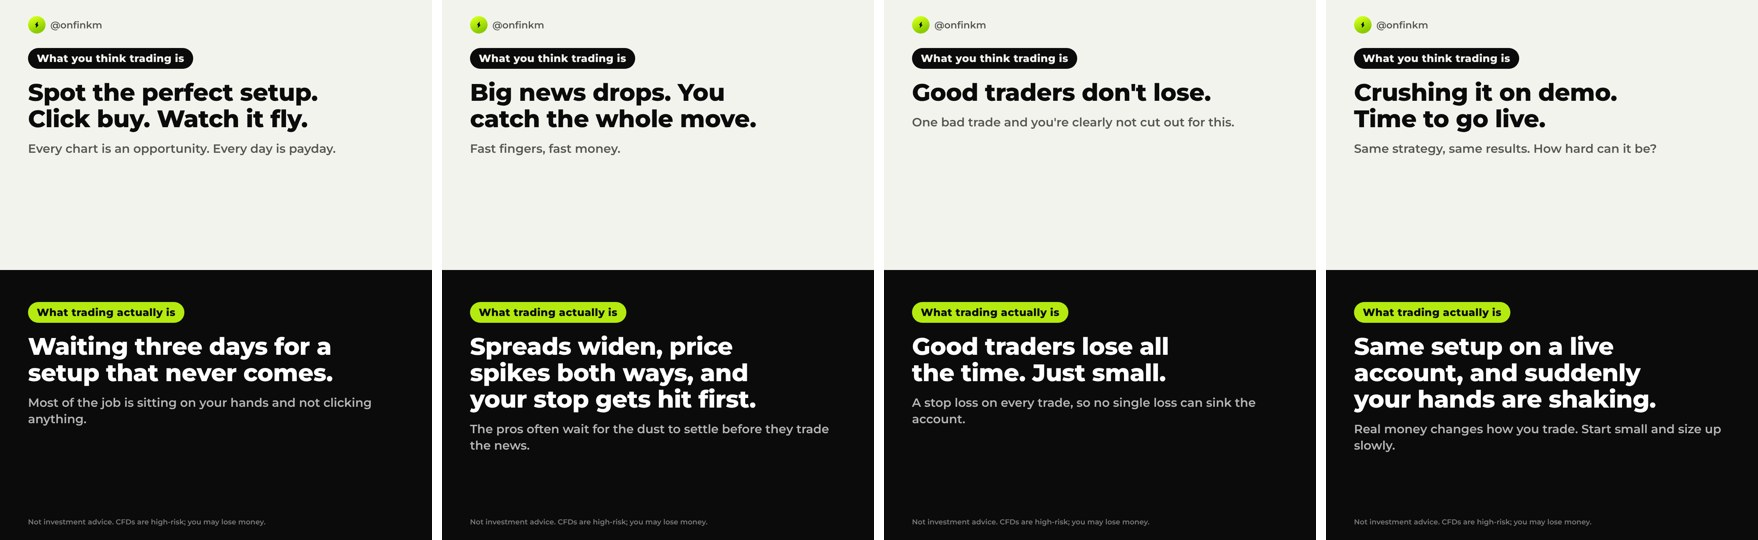
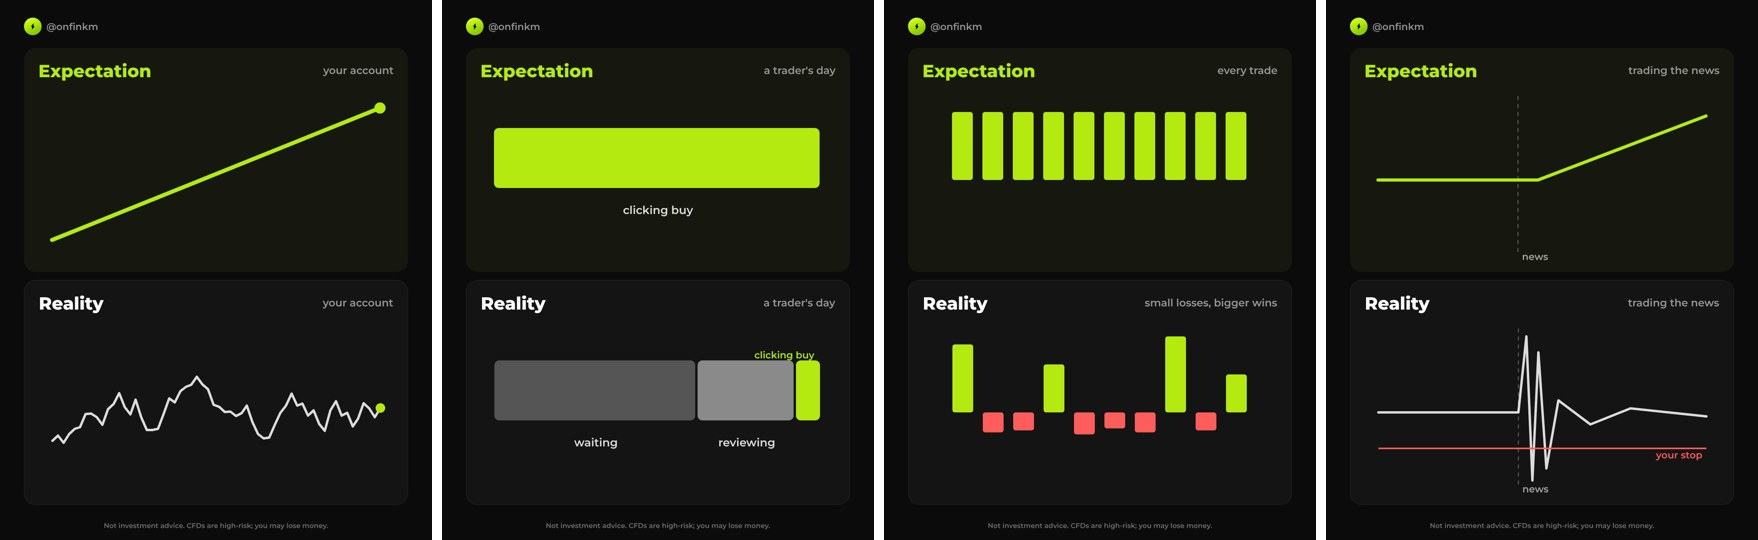
Expectation vs reality: visual version (chart-led, minimal text), 4 drafts
Claude-Session: https://claude.ai/code/session_01Njpc59aSxNtNVZngCgv1hR

diff --git a/social/series/expectation-vs-reality/_source/card.html b/social/series/expectation-vs-reality/_source/card.html
@@ -1,26 +1,23 @@
 <!doctype html><html><head><meta charset="utf-8"><style>
 @font-face{font-family:MX;src:url(file:///home/user/onfin-blog/social/reels/_meme/fonts/Montserrat-ExtraBold.ttf)}
 @font-face{font-family:MS;src:url(file:///home/user/onfin-blog/social/reels/_meme/fonts/Montserrat-SemiBold.ttf)}
-html,body{margin:0;width:1080px;height:1350px}
-#c{position:relative;width:1080px;height:1350px;font-family:MS}
-.top{position:absolute;left:0;top:0;width:1080px;height:675px;background:#f3f3ee}
-.bot{position:absolute;left:0;top:675px;width:1080px;height:675px;background:#0b0b0b}
-.tag{display:inline-block;padding:10px 22px;border-radius:999px;font-family:MX;font-size:26px;letter-spacing:.02em}
-.top .tag{background:#0b0b0b;color:#f3f3ee} .bot .tag{background:#B4EA10;color:#0b0b0b}
-.pad{position:absolute;left:70px;right:70px;top:120px}
-.bot .pad{top:80px}
-h2{margin:26px 0 0;font-family:MX;font-size:60px;line-height:1.1;letter-spacing:-.01em;text-wrap:balance}
-.top h2{color:#0b0b0b} .bot h2{color:#fff}
-.sub{margin-top:22px;font-size:30px;line-height:1.35}
-.top .sub{color:#55574f} .bot .sub{color:rgba(255,255,255,.7)}
-.hd{position:absolute;left:70px;top:40px;display:flex;align-items:center;gap:12px;font-family:MS;font-size:24px;color:#55574f}
+html,body{margin:0;width:1080px;height:1350px;background:#0b0b0b}
+#c{position:relative;width:1080px;height:1350px;background:#0b0b0b;font-family:MS;color:#fff}
+.hd{position:absolute;left:60px;top:44px;display:flex;align-items:center;gap:12px;font-size:24px;color:rgba(255,255,255,.55)}
 .hd img{width:44px;height:44px;border-radius:50%}
-.risk{position:absolute;left:70px;right:70px;bottom:34px;font-size:18px;color:rgba(255,255,255,.45)}
+.panel{position:absolute;left:60px;right:60px;height:560px;border-radius:28px;overflow:hidden}
+#p1{top:120px;background:#16180f} #p2{top:700px;background:#141414;border:1px solid rgba(255,255,255,.08)}
+.lab{position:absolute;left:36px;top:30px;font-family:MX;font-size:44px}
+#p1 .lab{color:#B4EA10} #p2 .lab{color:#fff}
+.note{position:absolute;right:36px;top:40px;font-size:26px;color:rgba(255,255,255,.55)}
+svg{position:absolute;left:0;top:0}
+.risk{position:absolute;left:60px;right:60px;bottom:26px;font-size:17px;color:rgba(255,255,255,.4);text-align:center}
 </style></head><body><div id="c">
-<div class="top"><div class="hd"><img src="file:///home/user/onfin-blog/social/reels/_meme/fonts/../logo/avatar-bolt.jpg"><span>@onfinkm</span></div>
-<div class="pad"><span class="tag" id="t1">What you think trading is</span><h2 id="e"></h2><div class="sub" id="es"></div></div></div>
-<div class="bot"><div class="pad"><span class="tag" id="t2">What trading actually is</span><h2 id="r"></h2><div class="sub" id="rs"></div></div>
-<div class="risk">Not investment advice. CFDs are high-risk; you may lose money.</div></div>
+<div class="hd"><img src="file:///home/user/onfin-blog/social/reels/_meme/fonts/../logo/avatar-bolt.jpg"><span id="handle">@onfinkm</span></div>
+<div class="panel" id="p1"><div class="lab">Expectation</div><div class="note" id="n1"></div><svg id="s1" width="960" height="560"></svg></div>
+<div class="panel" id="p2"><div class="lab">Reality</div><div class="note" id="n2"></div><svg id="s2" width="960" height="560"></svg></div>
+<div class="risk">Not investment advice. CFDs are high-risk; you may lose money.</div>
 </div><script>
-window.setCard=(c)=>{for(const k of ['e','es','r','rs','t1','t2']) if(c[k]!==undefined) document.getElementById(k).textContent=c[k];};
+window.setCard=c=>{document.getElementById('n1').textContent=c.n1||'';document.getElementById('n2').textContent=c.n2||'';
+document.getElementById('s1').innerHTML=c.s1;document.getElementById('s2').innerHTML=c.s2;if(c.handle)document.getElementById('handle').textContent=c.handle;};
 </script></body></html>

diff --git a/social/series/expectation-vs-reality/_source/render.js b/social/series/expectation-vs-reality/_source/render.js
@@ -1,6 +1,6 @@
 const {chromium}=require('playwright');const fs=require('fs');
-(async()=>{const [html,posts,out]=process.argv.slice(2);const P=JSON.parse(fs.readFileSync(posts));fs.mkdirSync(out,{recursive:true});
-const b=await chromium.launch();const p=await b.newPage({viewport:{width:1080,height:1350},deviceScaleFactor:1});
+(async()=>{const [html,posts,out]=process.argv.slice(2);const P=JSON.parse(fs.readFileSync(posts));
+const b=await chromium.launch();const p=await b.newPage({viewport:{width:1080,height:1350}});
 await p.goto('file://'+html);await p.evaluate(()=>document.fonts.ready);
 for(const [i,c] of P.entries()){await p.evaluate(c=>window.setCard(c),c);await p.waitForTimeout(100);await p.screenshot({path:`${out}/evr-${String(i+1).padStart(2,'0')}-${c.slug}.png`});}
 await b.close();})();

diff --git a/social/series/expectation-vs-reality/_source/make.py b/social/series/expectation-vs-reality/_source/make.py
@@ -1,0 +1,41 @@
+import json, random
+random.seed(7)
+L="#B4EA10"; R="#ff5c5c"; G="rgba(255,255,255,.85)"
+def poly(pts, col, w=8): return '<polyline points="%s" fill="none" stroke="%s" stroke-width="%d" stroke-linejoin="round" stroke-linecap="round"/>' % (" ".join("%.0f,%.0f" % p for p in pts), col, w)
+def txt(x,y,s,col="#fff",size=28,anchor="middle",font="MS"): return '<text x="%d" y="%d" fill="%s" font-size="%d" font-family="%s" text-anchor="%s">%s</text>'%(x,y,col,size,font,anchor,s)
+posts=[]
+# 1 the equity curve
+s1=poly([(70,480),(890,150)],L,10)+'<circle cx="890" cy="150" r="14" fill="%s"/>'%L
+pts=[];random.seed(11);y=430
+for i in range(60):
+    x=70+i*(820/59); target=330-10*i/59; y+= (target-y)*0.25 + random.uniform(-38,38); y=max(150,min(500,y)); pts.append((x,y))
+s2=poly(pts,G,6)+'<circle cx="%.0f" cy="%.0f" r="12" fill="%s"/>'%(pts[-1][0],pts[-1][1],L)
+posts.append(dict(slug="curve",n1="your account",n2="your account",s1=s1,s2=s2))
+# 2 time spent
+def bars(parts,y0=200):
+    out="";x=70;tot=820
+    for lab,frac,col in parts:
+        w=tot*frac; out+='<rect x="%.0f" y="%d" width="%.0f" height="150" rx="12" fill="%s"/>'%(x,y0,w-6,col)
+        if frac>0.08: out+=txt(x+w/2,y0+215,lab,"rgba(255,255,255,.85)",28)
+        x+=w
+    return out
+s1=bars([("clicking buy",1.0,L)])
+s2=bars([("waiting",0.62,"rgba(255,255,255,.28)"),("reviewing",0.3,"rgba(255,255,255,.5)"),("",0.08,L)])+txt(870,195,"clicking buy","#B4EA10",24,"end")
+posts.append(dict(slug="time",n1="a trader's day",n2="a trader's day",s1=s1,s2=s2))
+# 3 wins and losses (candles)
+def candles(seq,y0=330):
+    out="";x=110
+    for up,h in seq:
+        col=L if up else R
+        top=y0-h if up else y0
+        out+='<rect x="%d" y="%d" width="52" height="%d" rx="6" fill="%s"/>'%(x,top,h,col); x+=76
+    return out
+s1=candles([(1,170)]*10)
+s2=candles([(1,170),(0,50),(0,45),(1,120),(0,55),(0,40),(0,50),(1,190),(0,45),(1,95)])
+posts.append(dict(slug="wins",n1="every trade",n2="small losses, bigger wins",s1=s1,s2=s2))
+# 4 news spike
+base=[(70,330),(300,330),(420,330)]
+s1=poly(base+[(470,330),(890,170)],L,8)+'<line x1="420" y1="120" x2="420" y2="520" stroke="rgba(255,255,255,.25)" stroke-dasharray="10 10" stroke-width="3"/>'+txt(430,530,"news","rgba(255,255,255,.6)",24,"start")
+s2=poly(base+[(440,140),(455,500),(470,180),(490,470),(520,300),(600,360),(700,320),(890,340)],G,6)+'<line x1="420" y1="120" x2="420" y2="520" stroke="rgba(255,255,255,.25)" stroke-dasharray="10 10" stroke-width="3"/>'+'<line x1="70" y1="420" x2="890" y2="420" stroke="%s" stroke-width="4"/>'%R+txt(880,445,"your stop","%s"%R,24,"end")+txt(430,530,"news","rgba(255,255,255,.6)",24,"start")
+posts.append(dict(slug="news",n1="trading the news",n2="trading the news",s1=s1,s2=s2))
+json.dump(posts,open("posts.json","w"))
